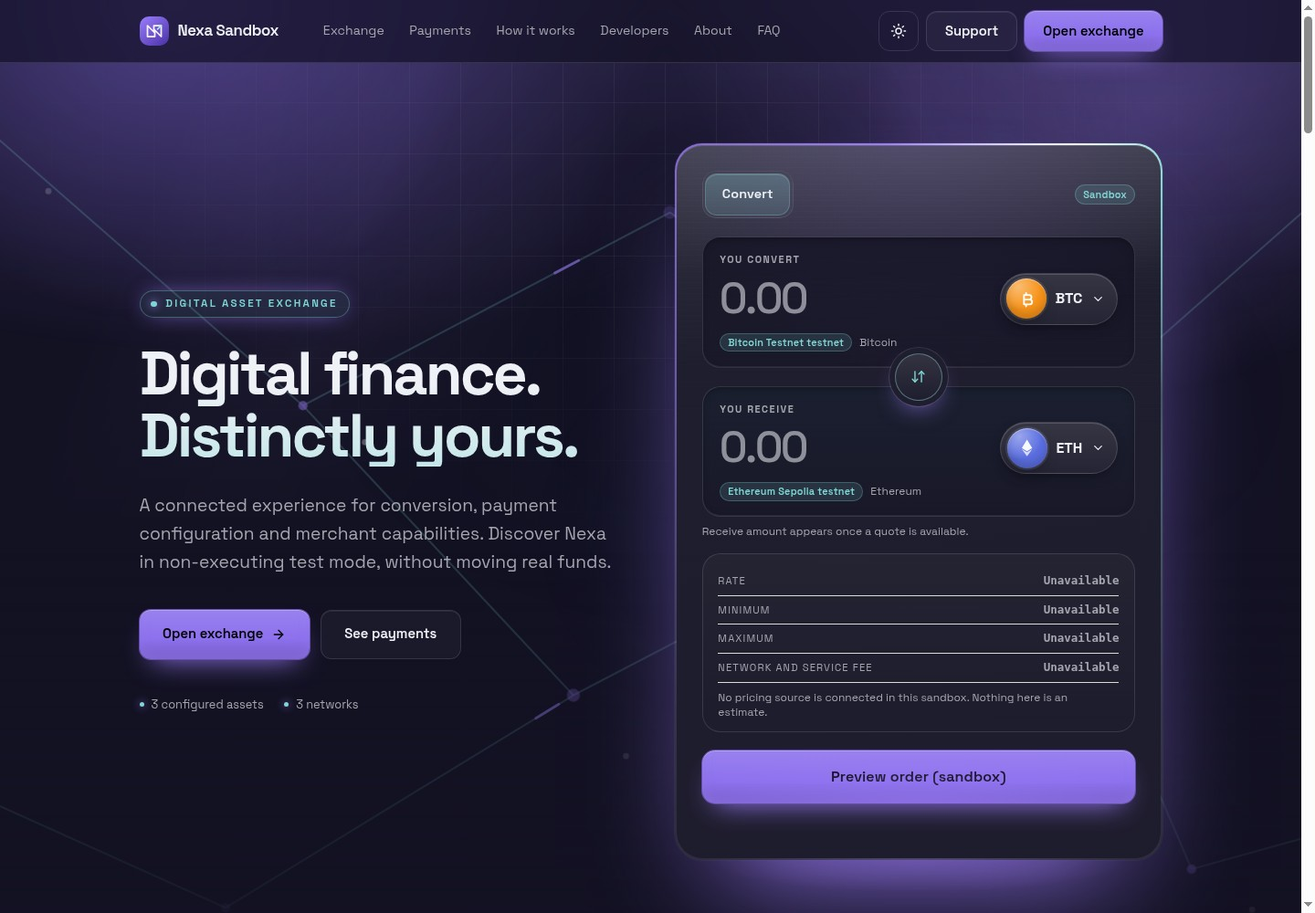
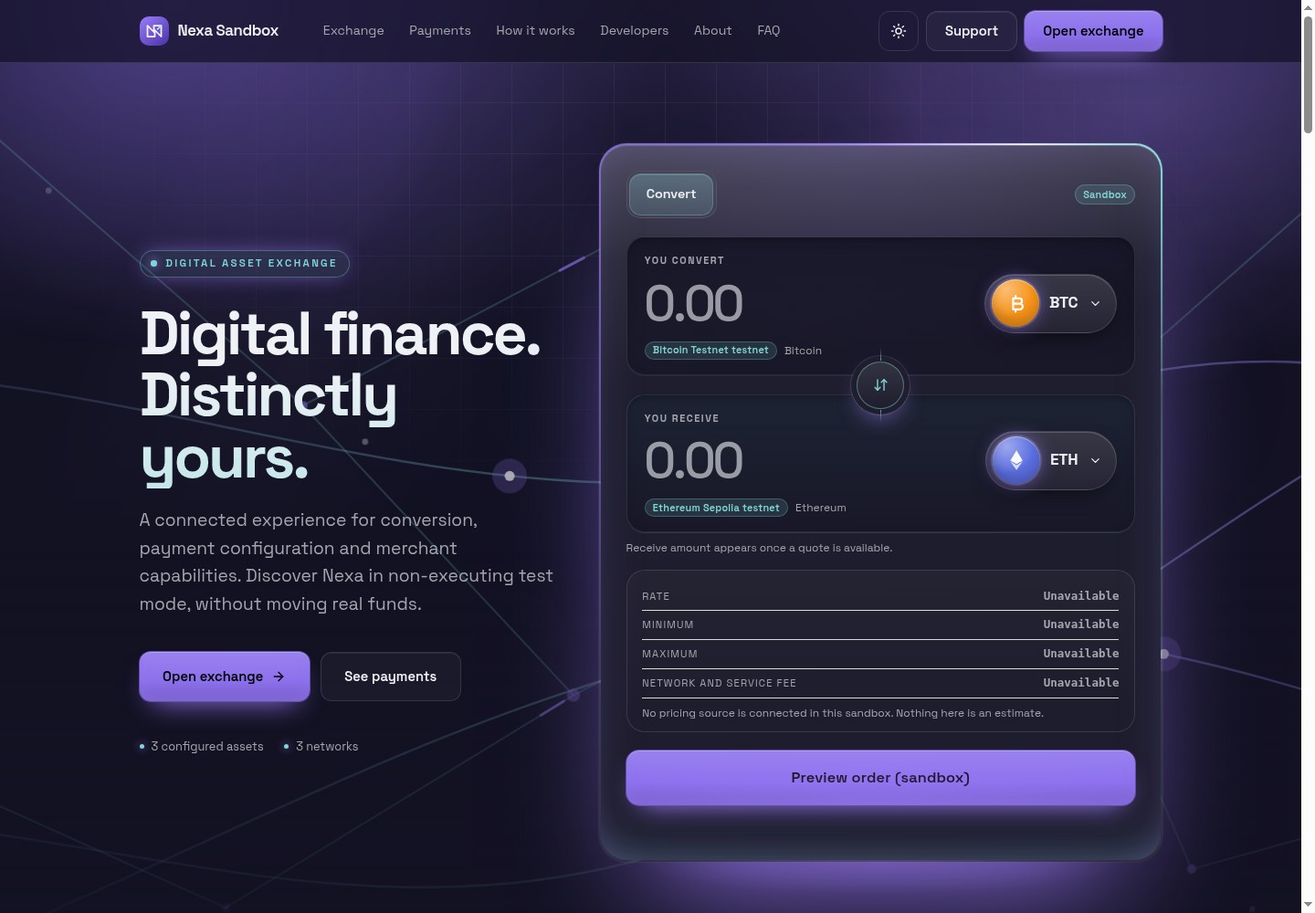
Update private label website visuals and styles
Replit-Commit-Author: Agent

diff --git a/artifacts/private-label-website/src/styles/site-instrument.css b/artifacts/private-label-website/src/styles/site-instrument.css
@@ -25,43 +25,67 @@
   .s-stage::before,.s-stage::after{display:none}
   .s-hero .s-wrap{gap:1.25rem}
 }
-/* --- widget: bezel, lit edge, glass layers --- */
-.s-glowframe{padding:1.5px;box-shadow:0 60px 120px -50px var(--s-glow),0 30px 60px -30px rgb(0 0 0/.6),0 0 0 1px color-mix(in srgb,var(--s-fg) 6%,transparent)}
-.s-glowframe::before{background:conic-gradient(from 0deg,transparent 0 42%,color-mix(in srgb,var(--s-glow) 60%,transparent) 66%,var(--s-glow) 80%,#fff 88%,var(--s-accent) 92%,transparent 100%);animation-duration:8s}
-.s-glowframe::after{content:"";position:absolute;inset:-80%;z-index:-1;background:conic-gradient(from 180deg,transparent 0 62%,color-mix(in srgb,var(--s-accent) 45%,transparent) 84%,transparent 100%);animation:s-spin 15s linear infinite reverse;opacity:.7}
-.s-glowinner{background:linear-gradient(172deg,color-mix(in srgb,var(--s-panel) 90%,var(--s-fg)) 0%,var(--s-panel) 28%,color-mix(in srgb,var(--s-panel) 88%,var(--s-bg)) 100%)}
+/* --- ribbons: branded light paths travelling around the stage (offset-distance + opacity only) --- */
+.s-rib{stroke:url(#s-rg);stroke-width:1.2;fill:none;opacity:.8}
+.s-comet,.s-comet-halo{fill:var(--s-glow);offset-rotate:0deg;offset-distance:0%;animation:s-comet 11s linear infinite}
+.s-comet{fill:#fff;fill-opacity:.9}
+.s-comet-halo{fill-opacity:.28}
+@keyframes s-comet{0%{offset-distance:0%;opacity:0}10%{opacity:1}88%{opacity:1}100%{offset-distance:100%;opacity:0}}
+@media(max-width:767px){.s-net{opacity:.9}.s-comet-x,.s-comet-x+*{display:none}.s-comet,.s-comet-halo{animation-duration:14s}}
+/* --- widget: lit bezel, glass body, calm wells --- */
+.s-glowframe{padding:1.5px;box-shadow:0 70px 130px -55px var(--s-glow),0 30px 60px -30px rgb(0 0 0/.55),0 0 0 1px color-mix(in srgb,var(--s-fg) 7%,transparent)}
+.s-glowframe::before{background:conic-gradient(from 0deg,transparent 0 40%,color-mix(in srgb,var(--s-glow) 55%,transparent) 64%,var(--s-glow) 79%,color-mix(in srgb,#fff 80%,var(--s-glow)) 87%,var(--s-accent) 92%,transparent 100%);animation-duration:8s}
+.s-glowframe::after{content:"";position:absolute;inset:-80%;z-index:-1;background:conic-gradient(from 180deg,transparent 0 62%,color-mix(in srgb,var(--s-accent) 45%,transparent) 84%,transparent 100%);animation:s-spin 15s linear infinite reverse;opacity:.6}
+.s-glowinner{background:linear-gradient(172deg,color-mix(in srgb,var(--s-panel) 88%,var(--s-fg)) 0%,var(--s-panel) 30%,color-mix(in srgb,var(--s-panel) 86%,var(--s-bg)) 100%);box-shadow:inset 0 1px 0 color-mix(in srgb,var(--s-fg) 18%,transparent),inset 0 0 70px -34px color-mix(in srgb,var(--s-glow) 55%,transparent),inset 0 -40px 60px -50px color-mix(in srgb,var(--s-accent) 40%,transparent)}
 .s-clip{position:absolute!important;inset:0;border-radius:inherit;overflow:hidden;pointer-events:none}
-.s-clip::before{content:"";position:absolute;inset:0;background:linear-gradient(180deg,color-mix(in srgb,var(--s-fg) 9%,transparent),transparent 18%);}
-.s-clip::after{content:"";position:absolute;inset:0;background-image:linear-gradient(color-mix(in srgb,var(--s-fg) 3.5%,transparent) 1px,transparent 1px);background-size:100% 6px;opacity:.5;-webkit-mask-image:linear-gradient(180deg,#000,transparent 70%);mask-image:linear-gradient(180deg,#000,transparent 70%)}
+.s-clip::before{content:"";position:absolute;inset:0;background:linear-gradient(180deg,color-mix(in srgb,var(--s-fg) 8%,transparent),transparent 16%)}
 .s-spec{position:absolute;left:0;top:0;width:420px;height:420px;margin:-210px 0 0 -210px;border-radius:50%;background:radial-gradient(closest-side,color-mix(in srgb,var(--s-glow) 26%,transparent),transparent);opacity:var(--so,0);transform:translate3d(var(--sx,50%),var(--sy,0),0);transition:opacity .4s;will-change:transform}
-.s-sheen{position:absolute;top:-20%;bottom:-20%;left:0;width:38%;background:linear-gradient(100deg,transparent,color-mix(in srgb,var(--s-fg) 9%,transparent),transparent);transform:translateX(-160%) skewX(-18deg);animation:s-sheen 10s cubic-bezier(.4,0,.2,1) infinite}
+.s-sheen{position:absolute;top:-20%;bottom:-20%;left:0;width:36%;background:linear-gradient(100deg,transparent,color-mix(in srgb,var(--s-fg) 9%,transparent),transparent);transform:translateX(-160%) skewX(-18deg);animation:s-sheen 10s cubic-bezier(.4,0,.2,1) infinite}
 @keyframes s-sheen{0%,62%{transform:translateX(-160%) skewX(-18deg)}100%{transform:translateX(420%) skewX(-18deg)}}
 .s-tabs{padding:.28rem;box-shadow:inset 0 2px 6px -2px rgb(0 0 0/.4),inset 0 0 0 1px var(--s-line)}
-.s-tab{letter-spacing:.01em}
 .s-lab{font-size:.68rem;font-weight:650;letter-spacing:.14em;text-transform:uppercase;color:var(--s-muted)}
-.s-side{position:relative;padding:1rem 1.15rem;background:linear-gradient(180deg,color-mix(in srgb,var(--s-bg) 78%,transparent),color-mix(in srgb,var(--s-bg) 40%,transparent));box-shadow:inset 0 3px 10px -4px rgb(0 0 0/.5),inset 0 -1px 0 color-mix(in srgb,var(--s-fg) 8%,transparent)}
-.s-side::before{content:"";position:absolute;left:-1px;top:18%;bottom:18%;width:2px;border-radius:2px;background:var(--s-accent);opacity:0;transform:scaleY(.4);transition:opacity .3s,transform .3s}
+.s-side{position:relative;padding:1.05rem 1.2rem 1rem;border-color:color-mix(in srgb,var(--s-fg) 10%,transparent);background:linear-gradient(180deg,color-mix(in srgb,var(--s-bg) 82%,transparent),color-mix(in srgb,var(--s-bg) 46%,transparent));box-shadow:inset 0 4px 14px -6px rgb(0 0 0/.55),inset 0 -1px 0 color-mix(in srgb,var(--s-fg) 9%,transparent)}
+.s-side::before{content:"";position:absolute;left:-1px;top:16%;bottom:16%;width:2px;border-radius:2px;background:var(--s-accent);opacity:0;transform:scaleY(.4);transition:opacity .3s,transform .3s}
+.s-side:focus-within{box-shadow:inset 0 4px 14px -6px rgb(0 0 0/.55),inset 0 0 40px -22px var(--s-glow),0 0 0 4px color-mix(in srgb,var(--s-accent) 16%,transparent)}
 .s-side:focus-within::before{opacity:1;transform:none;box-shadow:0 0 12px var(--s-glow)}
-.s-side-out{background:linear-gradient(180deg,color-mix(in srgb,var(--s-accent) 7%,var(--s-bg)),color-mix(in srgb,var(--s-bg) 45%,transparent))}
-.s-amount{font-size:clamp(2.15rem,7.4vw,3rem);font-weight:560;letter-spacing:-.04em;font-variant-numeric:tabular-nums slashed-zero;line-height:1.1}
-.s-amount::placeholder{color:color-mix(in srgb,var(--s-fg) 55%,transparent);font-weight:500}
-.s-pick{min-height:56px;background:linear-gradient(180deg,color-mix(in srgb,var(--s-fg) 11%,var(--s-panel)),color-mix(in srgb,var(--s-fg) 3%,var(--s-panel)));box-shadow:inset 0 1px 0 color-mix(in srgb,var(--s-fg) 18%,transparent),0 6px 16px -8px rgb(0 0 0/.6)}
+.s-side-out{background:linear-gradient(180deg,color-mix(in srgb,var(--s-accent) 9%,var(--s-bg)),color-mix(in srgb,var(--s-bg) 50%,transparent))}
+.s-amount{font-size:clamp(2.3rem,9vw,3.4rem);font-weight:540;letter-spacing:-.045em;font-variant-numeric:tabular-nums slashed-zero;line-height:1.08}
+.s-amount::placeholder{color:color-mix(in srgb,var(--s-fg) 60%,transparent);font-weight:480}
+.s-pick{min-height:64px;padding:.35rem .95rem .35rem .4rem;gap:.7rem;font-size:1.08rem;letter-spacing:-.01em;background:linear-gradient(180deg,color-mix(in srgb,var(--s-fg) 12%,var(--s-panel)),color-mix(in srgb,var(--s-fg) 3%,var(--s-panel)));box-shadow:inset 0 1px 0 color-mix(in srgb,var(--s-fg) 20%,transparent),0 10px 24px -10px rgb(0 0 0/.65)}
+.s-pick .s-coin{box-shadow:inset 0 1px 1px rgb(255 255 255/.45),inset 0 -8px 12px rgb(0 0 0/.2),0 0 0 2px color-mix(in srgb,var(--s-fg) 14%,transparent),0 0 22px -4px var(--s-glow)}
 .s-coin{overflow:hidden}
-.s-coin::after{content:"";position:absolute;inset:0;border-radius:50%;background:radial-gradient(circle at 30% 20%,rgb(255 255 255/.38),transparent 55%);pointer-events:none}
+.s-coin::after{content:"";position:absolute;inset:0;border-radius:50%;background:radial-gradient(circle at 30% 20%,rgb(255 255 255/.4),transparent 55%);pointer-events:none}
 .s-swapbtn{width:52px;height:52px;border-radius:50%;box-shadow:0 0 0 6px var(--s-panel),0 0 0 7px var(--s-line),0 12px 28px -8px var(--s-glow)}
-.s-ratebox{border:0!important;position:relative;padding:.9rem 1.1rem!important;border-radius:var(--s-r2);background:linear-gradient(180deg,color-mix(in srgb,var(--s-fg) 3%,transparent),transparent);box-shadow:inset 0 0 0 1px var(--s-line)}
+.s-swapbtn::before,.s-swapbtn::after{content:"";position:absolute;left:50%;width:1px;height:14px;background:linear-gradient(var(--s-accent),transparent);opacity:.7}
+.s-swapbtn::before{top:-16px;transform:rotate(180deg)}.s-swapbtn::after{bottom:-16px}
+.s-ratebox{border:0!important;padding:.85rem 1.1rem!important;border-radius:var(--s-r2);background:linear-gradient(180deg,color-mix(in srgb,var(--s-fg) 3%,transparent),transparent);box-shadow:inset 0 0 0 1px var(--s-line)}
 .s-ratebox dt{font-size:.7rem;letter-spacing:.1em;text-transform:uppercase}
 .s-ratebox dd{font-family:ui-monospace,'SF Mono',Menlo,monospace;font-size:.78rem;color:var(--s-muted)}
-.s-cta-xl{min-height:58px;font-size:1rem;letter-spacing:.01em;border-radius:calc(var(--s-r1) + 2px)}
+.s-cta-xl{min-height:60px;font-size:1.02rem;letter-spacing:.01em;border-radius:calc(var(--s-r1) + 2px)}
 .s-cta-xl:not(:disabled)::before{content:"";position:absolute;inset:0;background:radial-gradient(60% 140% at 50% 120%,color-mix(in srgb,var(--s-glow) 55%,transparent),transparent);opacity:.8}
+.s-cta-xl:disabled{background:linear-gradient(180deg,color-mix(in srgb,var(--s-fg) 10%,var(--s-panel)),var(--s-panel));color:var(--s-muted);box-shadow:inset 0 0 0 1px var(--s-line);opacity:.8}
+/* single-asset (insufficient) state: honest, equally crafted */
+.s-insuff{position:relative;padding:1.4rem 1.3rem;border-radius:var(--s-r2);background:radial-gradient(90% 80% at 50% 0%,color-mix(in srgb,var(--s-accent) 12%,transparent),transparent 70%),color-mix(in srgb,var(--s-bg) 55%,transparent);box-shadow:inset 0 3px 12px -6px rgb(0 0 0/.5),inset 0 0 0 1px var(--s-line)}
+.s-pairviz{display:flex;align-items:center;justify-content:center;gap:.9rem;margin-bottom:1.2rem}
+.s-pairviz-line{width:3.4rem;height:1px;background:repeating-linear-gradient(90deg,var(--s-accent) 0 5px,transparent 5px 10px);opacity:.7}
+.s-ghostcoin{display:grid;place-items:center;width:64px;height:64px;border-radius:50%;border:1.5px dashed color-mix(in srgb,var(--s-fg) 32%,transparent);color:var(--s-muted);font-weight:600;font-size:1.1rem}
 @media(max-width:767px){
   .s-sheen,.s-glowframe::after,.s-spec{display:none}
-  .s-glowframe::before{animation-duration:16s}
-  .s-side{padding:.8rem .95rem}
-  .s-pick{min-height:52px}
+  .s-glowframe::before{inset:0;width:200%;background:repeating-linear-gradient(90deg,transparent 0,var(--s-glow) 12%,var(--s-accent) 17%,transparent 30%,transparent 50%);animation:s-edge 7s linear infinite}
+  .s-side{padding:.85rem 1rem}
+  .s-pick{min-height:58px}
   .s-ratebox{padding:.65rem .9rem!important}
 }
+@keyframes s-edge{to{transform:translateX(-50%)}}
 /* --- premium card illumination: gradient hairline edge + inner light --- */
+@media(max-width:767px){
+  .s-ratebox{display:grid;grid-template-columns:repeat(2,minmax(0,1fr));column-gap:.8rem;row-gap:.35rem;padding:.55rem .8rem!important}
+  .s-ratebox>div{display:block;padding:.125rem 0;border:0}
+  .s-ratebox dt{font-size:.61rem;letter-spacing:.04em;line-height:1.25}
+  .s-ratebox dd{font-size:.72rem;line-height:1.3;margin-top:.125rem}
+  .s-ratebox>p{grid-column:1/-1;padding-top:.35rem;border-top:1px solid var(--s-line);font-size:.68rem;line-height:1.35}
+  .s-cta-xl{margin-top:.75rem}
+}
 .s-lit{box-shadow:inset 0 1px 0 color-mix(in srgb,var(--s-fg) 14%,transparent),0 30px 60px -40px var(--s-glow),0 2px 0 -1px rgb(0 0 0/.2);box-shadow:inset 0 1px 0 color-mix(in srgb,var(--s-fg) 14%,transparent),0 30px 60px -40px var(--s-glow)}
 .s-lit::after{content:"";position:absolute;inset:0;border-radius:inherit;padding:1px;pointer-events:none;background:linear-gradient(145deg,color-mix(in srgb,var(--s-accent) 60%,transparent),transparent 38%,transparent 62%,color-mix(in srgb,var(--s-glow) 35%,transparent));-webkit-mask:linear-gradient(#000 0 0) content-box,linear-gradient(#000 0 0);-webkit-mask-composite:xor;mask:linear-gradient(#000 0 0) content-box exclude,linear-gradient(#000 0 0);opacity:.55;transition:opacity .4s}
 .s-lit:hover::after{opacity:1}
@@ -70,5 +94,5 @@
 .s-section:first-of-type::before{display:none}
 .s-cta-panel{box-shadow:inset 0 1px 0 color-mix(in srgb,var(--s-fg) 16%,transparent),inset 0 0 0 1px var(--s-line),0 60px 120px -60px var(--s-glow)}
 @media(prefers-reduced-motion:reduce){
-  .s-sheen,.s-spec,.s-ambient::before,.s-ambient::after{display:none}
+  .s-sheen,.s-spec,.s-ambient::before,.s-ambient::after,.s-comet,.s-comet-halo{display:none}
 }

diff --git a/artifacts/private-label-website/src/components/exchange-widget.tsx b/artifacts/private-label-website/src/components/exchange-widget.tsx
@@ -16,10 +16,10 @@ function Side({ label, asset, onPick, value, onValue, readOnly, fiat, error, id,
         <div className="mt-1.5 flex items-center gap-3">
           <input id={`amt-${id}`} className="s-amount" inputMode="decimal" autoComplete="off" placeholder="0.00" value={value} readOnly={readOnly} aria-invalid={!!error} aria-describedby={error ? `err-${id}` : undefined} onChange={(e) => { const v = e.target.value.replace(',', '.'); if (AMOUNT.test(v)) onValue?.(v); }} data-testid={`input-amount-${id}`} />
           {fiat ? (
-            <span className="s-pick" style={{ cursor: 'default' }} data-testid={`pill-fiat-${id}`}><span className="s-coin" style={{ width: 44, height: 44, background: 'var(--s-secondary)', color: 'var(--s-bg)' }}>Fi</span>Fiat</span>
+            <span className="s-pick" style={{ cursor: 'default' }} data-testid={`pill-fiat-${id}`}><span className="s-coin" style={{ width: 52, height: 52, background: 'var(--s-secondary)', color: 'var(--s-bg)' }}>Fi</span>Fiat</span>
           ) : (
             <button type="button" className="s-pick" onClick={onPick} disabled={!assetsAvailable} aria-haspopup="dialog" aria-label={`${label}: choose asset${asset ? `, ${asset.symbol} on ${asset.networkName}` : ''}`} data-testid={`button-asset-${id}`}>
-              {asset ? <Coin asset={asset} size={44} /> : <span className="s-coin" style={{ width: 44, height: 44, background: 'var(--s-secondary)' }}>?</span>}
+              {asset ? <Coin asset={asset} size={52} /> : <span className="s-coin" style={{ width: 52, height: 52, background: 'var(--s-secondary)' }}>?</span>}
               <span className="truncate">{asset ? asset.symbol : 'Select'}</span><ChevronDown size={15} aria-hidden="true" />
             </button>
           )}
@@ -108,7 +108,8 @@ export function ExchangeWidget({ site, caps }: { site: PublicSite; caps: Caps })
       {noAssets ? (
         <div className="py-10 text-center" data-testid="state-widget-no-assets"><h3 className="text-lg font-semibold">No assets configured</h3><p className="s-muted mx-auto mt-2 max-w-xs text-sm">This tenant has not enabled any assets or networks yet, so there is nothing to exchange.</p></div>
       ) : insufficient ? (
-        <div className="mt-5 rounded-[var(--s-r2)] border p-5" style={{ borderColor: 'var(--s-line)' }} data-testid="state-widget-insufficient">
+        <div className="s-insuff mt-5" data-testid="state-widget-insufficient">
+          <div className="s-pairviz" aria-hidden="true">{assets[0] && <Coin asset={assets[0]} size={64} />}<span className="s-pairviz-line" /><span className="s-ghostcoin">2</span></div>
           <div className="flex items-start gap-3"><Info size={18} className="mt-0.5 shrink-0" style={{ color: 'var(--s-accent-ink)' }} aria-hidden="true" />
             <div><h3 className="font-semibold">A {LABEL[tab].toLowerCase()} needs two different assets</h3>
               <p className="s-muted mt-1.5 text-sm leading-relaxed">{site.brandName} currently has one configured asset, so no valid pair exists. A pair is not simulated with a duplicate. Currently configured:</p>
@@ -116,7 +117,7 @@ export function ExchangeWidget({ site, caps }: { site: PublicSite; caps: Caps })
             </div></div>
         </div>
       ) : (
-        <div className="mt-5">
+        <div className="mt-4 sm:mt-5">
           <Side id="top" label={tab === 'buy' ? 'You pay' : tab === 'convert' ? 'You convert' : 'You send'} asset={tab === 'buy' ? null : from} fiat={tab === 'buy'} onPick={() => setPicker('from')} value={amount} onValue={(v) => { setAmount(v); reset(); }} error={amountError} assetsAvailable={assets.length > 0} />
           {twoSided ? <button type="button" className="s-swapbtn" onClick={flip} aria-label="Switch direction" disabled={!from || !to} data-testid="button-switch-direction"><ArrowDownUp size={17} /></button> : <div className="h-3" />}
           <Side id="bottom" label="You receive" asset={tab === 'sell' ? null : to} fiat={tab === 'sell'} onPick={() => setPicker(cryptoSide === 'to' ? 'to' : 'from')} value="" readOnly assetsAvailable={assets.length > 0} />

diff --git a/artifacts/private-label-website/src/components/hero.tsx b/artifacts/private-label-website/src/components/hero.tsx
@@ -20,16 +20,10 @@ export function Hero({ site, caps }: { site: PublicSite; caps: Caps }) {
   const eyebrow = caps.exchange !== 'off' ? 'Digital asset exchange' : caps.payments ? 'Crypto payments' : 'Digital assets';
   return (
     <section className="s-hero" data-testid="section-hero">
-      <div className="s-wrap grid items-center gap-8 md:gap-12 lg:grid-cols-[1fr_1.02fr] lg:gap-16">
-        <div className="s-rise">
+      <div className="s-wrap s-hero-composition">
+        <div className="s-rise s-hero-intro">
           <span className="s-eyebrow s-eyebrow-lit" data-testid="text-hero-eyebrow">{eyebrow}</span>
           <h1 className="s-display s-display-grad mt-5 md:mt-7" data-testid="text-hero-title">{ws.heroTitle}</h1>
-          {ws.heroSubtitle && <p className="s-muted s-hero-sub mt-4 md:mt-7" data-testid="text-hero-subtitle">{ws.heroSubtitle}</p>}
-          <div className="s-hero-actions mt-5 md:mt-9">
-            <a href={href(cta.id)} onClick={go(cta.id)} className="s-btn s-btn-primary" style={{ minHeight: 54, padding: "0 1.6rem" }} data-testid="link-hero-cta">{cta.label}<ArrowRight size={16} /></a>
-            {second && <a href={href(second.id)} onClick={go(second.id)} className="s-btn s-btn-ghost" style={{ minHeight: 54, padding: "0 1.6rem" }} data-testid="link-hero-secondary">{second.label}</a>}
-          </div>
-          {trust.length > 0 && <ul className="s-facts mt-7 md:mt-10" aria-label="Facts" data-testid="list-trust">{trust.map((t) => <li key={t}>{t}</li>)}</ul>}
         </div>
         <div id={caps.exchange !== 'off' ? 'exchange' : undefined} className="s-rise s-stage mx-auto w-full max-w-[30rem] lg:max-w-none" style={{ animationDelay: '.12s' }}>
           {caps.exchange !== 'off' ? <ExchangeWidget site={site} caps={caps} />
@@ -40,6 +34,14 @@ export function Hero({ site, caps }: { site: PublicSite; caps: Caps }) {
                 {names.length ? <ul className="mt-4 space-y-3">{names.map((n) => <li key={n} className="flex items-center justify-between border-b pb-3 text-[0.95rem] font-medium last:border-0" style={{ borderColor: 'var(--s-line)' }}>{n}<span className="s-badge">Preview</span></li>)}</ul>
                   : <p className="s-muted mt-3 text-sm leading-relaxed">No customer services are enabled for {site.brandName} yet. Check back soon.</p>}
               </div>)}
+        </div>
+        <div className="s-rise s-hero-details">
+          {ws.heroSubtitle && <p className="s-muted s-hero-sub mt-4 md:mt-7" data-testid="text-hero-subtitle">{ws.heroSubtitle}</p>}
+          <div className="s-hero-actions mt-5 md:mt-9">
+            <a href={href(cta.id)} onClick={go(cta.id)} className="s-btn s-btn-primary" style={{ minHeight: 54, padding: "0 1.6rem" }} data-testid="link-hero-cta">{cta.label}<ArrowRight size={16} /></a>
+            {second && <a href={href(second.id)} onClick={go(second.id)} className="s-btn s-btn-ghost" style={{ minHeight: 54, padding: "0 1.6rem" }} data-testid="link-hero-secondary">{second.label}</a>}
+          </div>
+          {trust.length > 0 && <ul className="s-facts mt-7 md:mt-10" aria-label="Facts" data-testid="list-trust">{trust.map((t) => <li key={t}>{t}</li>)}</ul>}
         </div>
       </div>
     </section>

diff --git a/artifacts/private-label-website/src/components/ambient.tsx b/artifacts/private-label-website/src/components/ambient.tsx
@@ -3,6 +3,8 @@ import { useEffect, useRef } from 'react';
 const NODES: [number, number][] = [[90, 140], [260, 70], [420, 210], [610, 110], [790, 240], [960, 90], [1110, 200], [180, 380], [380, 470], [560, 360], [880, 450], [1060, 400]];
 const LINKS: [number, number][] = [[0, 1], [1, 2], [2, 3], [3, 4], [4, 5], [5, 6], [0, 7], [7, 8], [8, 9], [2, 9], [9, 4], [4, 10], [10, 11], [6, 11]];
 
+const RIBBONS: [string, string][] = [["M-40 470C220 330 430 560 700 400S1040 120 1260 210", "0"], ["M-40 250C240 90 470 330 760 220S1060 330 1260 120", "-3.2"], ["M-40 560C260 560 520 280 820 330S1100 500 1260 400", "-6.1"]];
+
 /** Lightweight CSS/SVG atmosphere. Decorative only; never intercepts input. */
 export function Ambient() {
   const light = useRef<HTMLDivElement>(null);
@@ -22,7 +24,9 @@ export function Ambient() {
         <div className="s-aurora" /><div className="s-grid" />
         <div className="s-orb s-orb-a" /><div className="s-orb s-orb-b" /><div className="s-orb s-orb-c" />
         <svg className="s-net" viewBox="0 0 1200 520" preserveAspectRatio="xMidYMin slice" fill="none">
-          {LINKS.map(([a, b], i) => <line key={i} x1={NODES[a][0]} y1={NODES[a][1]} x2={NODES[b][0]} y2={NODES[b][1]} className="s-net-line" />)}
+          <defs><linearGradient id="s-rg" x1="0" x2="1"><stop offset="0" stopColor="var(--s-primary)" stopOpacity="0" /><stop offset=".45" stopColor="var(--s-accent)" stopOpacity=".55" /><stop offset=".8" stopColor="var(--s-glow)" stopOpacity=".7" /><stop offset="1" stopColor="var(--s-glow)" stopOpacity="0" /></linearGradient></defs>
+          {RIBBONS.map(([d, delay], i) => <g key={`r${i}`}><path d={d} className="s-rib" /><circle r="9" className="s-comet-halo" style={{ offsetPath: `path("${d}")`, animationDelay: `${delay}s` }} /><circle r="2.6" className={`s-comet${i === 2 ? ' s-comet-x' : ''}`} style={{ offsetPath: `path("${d}")`, animationDelay: `${delay}s` }} /></g>)}
+                    {LINKS.map(([a, b], i) => <line key={i} x1={NODES[a][0]} y1={NODES[a][1]} x2={NODES[b][0]} y2={NODES[b][1]} className="s-net-line" />)}
           {LINKS.map(([a, b], i) => i % 2 === 0 && <line key={`f${i}`} x1={NODES[a][0]} y1={NODES[a][1]} x2={NODES[b][0]} y2={NODES[b][1]} className="s-net-flow" style={{ animationDelay: `${i * -0.9}s` }} />)}
           {NODES.map(([x, y], i) => <circle key={`m${i}`} cx={x + 24} cy={y + 40} r={1.6} className="s-mote" style={{ animationDelay: `${i * -1.7}s` }} />)}
           {NODES.map(([x, y], i) => <circle key={i} cx={x} cy={y} r={i % 3 === 0 ? 3.4 : 2.4} className="s-net-node" style={{ animationDelay: `${(i % 5) * -1.1}s` }} />)}

diff --git a/artifacts/private-label-website/src/styles/site-atmosphere.css b/artifacts/private-label-website/src/styles/site-atmosphere.css
@@ -28,3 +28,16 @@
 .s-facts li{display:inline-flex;align-items:center;gap:.5rem;color:var(--s-muted)}
 .s-facts li::before{content:"";width:5px;height:5px;border-radius:50%;background:var(--s-accent);box-shadow:0 0 10px var(--s-glow)}
 .s-hero .s-display{max-width:13ch}@media(max-width:767px){.s-hero .s-display{max-width:none}}
+.s-hero .s-wrap.s-hero-composition{display:grid;gap:1.25rem}
+.s-hero-details .s-hero-sub{margin-top:0!important}
+@media(max-width:1023px){
+  .s-hero .s-display{max-width:none}
+  .s-hero .s-wrap.s-hero-composition{padding-inline:.75rem}
+  .s-hero-intro,.s-hero-details{padding-inline:.4rem}
+}
+@media(min-width:1024px){
+  .s-hero .s-wrap.s-hero-composition{grid-template-columns:minmax(0,.85fr) minmax(0,1.15fr);column-gap:3rem;row-gap:1.25rem}
+  .s-hero-intro{grid-column:1;grid-row:1;align-self:end}
+  .s-hero-details{grid-column:1;grid-row:2;align-self:start}
+  .s-hero-composition>.s-stage{grid-column:2;grid-row:1 / span 2;align-self:center}
+}

diff --git a/docs/customer-website.md b/docs/customer-website.md
@@ -44,8 +44,13 @@ Customer styles are divided into base, atmosphere, widget, sections and showcase
 stylesheets, with a final instrument layer for deeper widget surfaces, traveling
 edge illumination, desktop pointer highlights and recessed input panels. Large
 atmospheric orbs stay static; mobile disables the widget sheen and pointer light.
-The tighter mobile hero places Nexa's widget around 378px from the top at 390px
-width, compared with around 433px before this refinement. Additional checks at
+The hero now places the widget directly after the headline on mobile; descriptive
+copy and secondary actions follow it. Desktop gives the widget a wider column.
+At 390px width, Nexa's widget starts around 212px from the top, is 366px wide, and
+its preview button fits within the first 844px viewport. Mobile rate details use
+a compact two-column layout without hiding labels or notices. Branded SVG light
+ribbons and small animated comets give the background a more visible atmosphere,
+with lighter mobile effects and reduced-motion support. Additional checks at
 320px and 768px found no horizontal overflow, and real pointer clicks confirmed
 that the picker and non-executing preview action still work.
 Capability logic, routing, theme preference behavior, backend,
@@ -110,13 +115,13 @@ Final production build (not published):
 
 | Asset | Minified | Gzip |
 |---|---:|---:|
-| Initial JavaScript | 381.05 kB | 122.65 kB |
+| Initial JavaScript | 382.11 kB | 123.01 kB |
 | Lazy below-fold JavaScript | 17.19 kB | 6.23 kB |
-| CSS | 141.77 kB | 23.63 kB |
+| CSS | 145.88 kB | 24.41 kB |
 | HTML | 1.21 kB | 0.47 kB |
 
-Initial JavaScript + CSS: **146.28 kB gzip**; all JavaScript + CSS: **152.51 kB gzip**.
-Build took 3.56 seconds in the development container. These exclude font responses,
+Initial JavaScript + CSS: **147.42 kB gzip**; all JavaScript + CSS: **153.65 kB gzip**.
+Build took 3.71 seconds in the development container. These exclude font responses,
 transport headers and logos. Only the configured tenant font is loaded; SVG marks
 and coin glyphs do not require large media or additional coin-image requests.
 

diff --git a/.agents/memory/customer-visual-approval.md b/.agents/memory/customer-visual-approval.md
@@ -4,8 +4,8 @@ description: The customer-facing design must be approved before any new backend 
 ---
 Wait for the user's explicit visual approval of the shared customer website before starting any new backend phase. Visual approval alone does not request or authorize that next phase.
 
-The customer website must look significantly premium and visually impressive, with the exchange widget as the main centerpiece. Prioritize the mobile hero/widget, layered depth, animated lighting, subtle glow and illuminated cards. Keep motion smooth/lightweight and preserve multi-tenant branding.
+The customer website must look significantly premium and visually impressive, with the exchange widget as the main centerpiece. Prioritize the actual first mobile viewport, a larger/cleaner/dominant widget, layered depth, visible elegant animated atmosphere and illuminated cards. Keep it professional, fast and trustworthy, with smooth/lightweight motion and multi-tenant branding preserved.
 
-**Why:** The user rejected both the initial sandbox/SaaS-template appearance and the first premium refinement as insufficiently impressive. They repeated the requirement for a stronger fintech/crypto atmosphere and mobile/widget emphasis.
+**Why:** The user repeatedly rejected incremental polish/lighting passes as still too simple. They require a clear first-opening “wow” effect and a much stronger crypto/fintech identity, especially on mobile.
 
-**How to apply:** Treat backend architecture, entitlements, plans, isolation, admin applications and non-executing sandbox behavior as fixed during visual iterations. Honest sandbox notices remain necessary, but the financial engine being deferred is not a reason to use a development-template visual design.
+**How to apply:** Check the actual first mobile viewport and composition, not only desktop glow strength. Treat backend architecture, entitlements, plans, isolation, admin applications and non-executing sandbox behavior as fixed during visual iterations. Honest sandbox notices remain necessary, but the financial engine being deferred is not a reason to use a development-template visual design.
